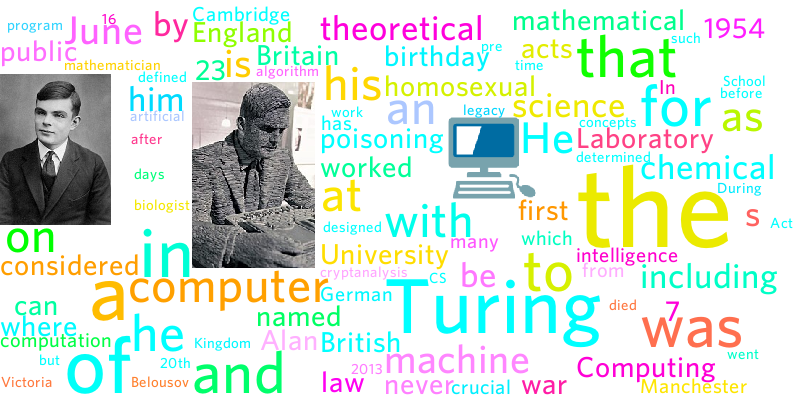
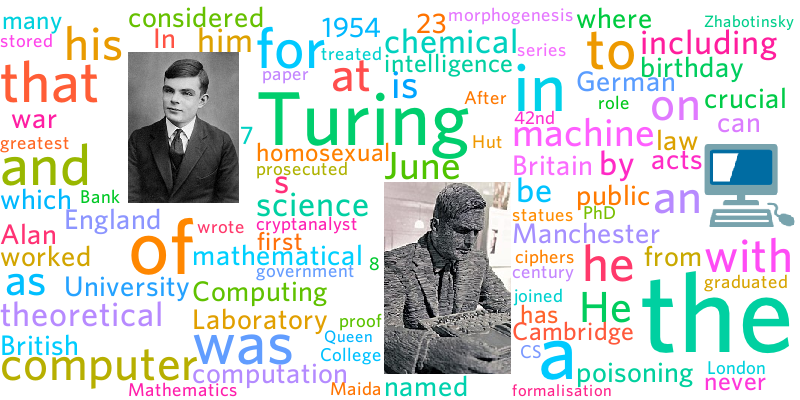
softer default colors, more standard logging entry

diff --git a/src/builder.rs b/src/builder.rs
@@ -21,21 +21,21 @@ fn wordcloud(font: &Font, dim: (usize, usize), mut tokens: Vec<(Token, f32)>, co
     let mut adjust = 1.;
     let len = tokens.len();
     'outer: for (i, (token, size)) in enumerate(tokens) {
-        debug!(target: "Word Cloud", "{} {}", size, token);
+        debug!(target: "wordcloud", "{} {}", size, token);
         loop {
             let rasterisable: Box<dyn Rasterisable> = match token.clone() {
                 Token::Text(text) => Box::new(Text::new(text, font.clone(), (2.+size*c)*adjust, colors.get())),
-                Token::Img(image) => Box::new(Image::new(image, (2.+size*c)*adjust*2.))
+                Token::Img(image) => Box::new(Image::new(image, (2.+size*c)*adjust*1.5))
             };
             if wc.add(rasterisable) {
                 break;
             }
             if adjust < 0.5 {
-                warn!(target: "Word Cloud", "Could only fit {}/{} tokens", i, len);
+                warn!(target: "wordcloud", "Could only fit {}/{} tokens", i, len);
                 break 'outer;
             }
             adjust -= 0.1;
-            warn!(target: "Word Cloud", "Adjusting scale to {}", adjust)
+            warn!(target: "wordcloud", "Adjusting scale to {}", adjust)
         };
     }
     wc.image
@@ -55,7 +55,7 @@ impl Builder {
         Self {
             dim: (800, 400),
             font, 
-            colors: ColorScheme::Rainbow {luminance: 90., chroma: 128.}.into()
+            colors: ColorScheme::Rainbow {luminance: 70., chroma: 100.}.into()
         }
     }
 

diff --git a/src/wordcloud.rs b/src/wordcloud.rs
@@ -42,18 +42,18 @@ impl WorldCloud {
     pub fn add(&mut self, token: Box<dyn Rasterisable>) -> bool {
         let mut bitmap = token.to_bitmap();
         if bitmap.width*bitmap.height == 0 {
-            warn!(target: "Word Cloud", "Token bitmap has area of 0");
+            warn!(target: "wordcloud", "Token bitmap has area of 0");
             return false;
         }
         bitmap.blur();
         match self.collision_map.place(bitmap) {
             Ok(pos) => {
                 token.draw(&mut self.image, pos);
-                info!(target: "Word Cloud", "Placed `{}` at {:?}", token, pos);
+                info!(target: "wordcloud", "Placed `{}` at {:?}", token, pos);
                 true
             },
             Err(err) => {
-                warn!(target: "Word Cloud", "{:?}", err);
+                warn!(target: "wordcloud", "{:?}", err);
                 false
             }
         }

diff --git a/src/lib.rs b/src/lib.rs
@@ -38,13 +38,13 @@ mod tests {
     #[test]
     fn it_works() {
         env_logger::builder()
-            .filter_module("Word Cloud", log::LevelFilter::Info)
+            .filter_module("wordcloud", log::LevelFilter::Info)
             .init();
         let text = fs::read_to_string("assets/sample_text.txt").unwrap();
         let mut tokens = tokenize(text);
-        tokens.push((Token::from("assets/alan_turing.jpg"), 8.));
-        tokens.push((Token::from("assets/turing_statue_bletchley.jpg"), 10.));
-        tokens.push((Token::from("assets/computer_emoji.png"), 5.));
+        tokens.push((Token::from("assets/alan_turing.jpg"), 15.));
+        tokens.push((Token::from("assets/turing_statue_bletchley.jpg"), 20.));
+        tokens.push((Token::from("assets/computer_emoji.png"), 10.));
         let wc = WordCloud::new().generate(tokens);
         wc.save("sample_cloud.png").unwrap();
     }
